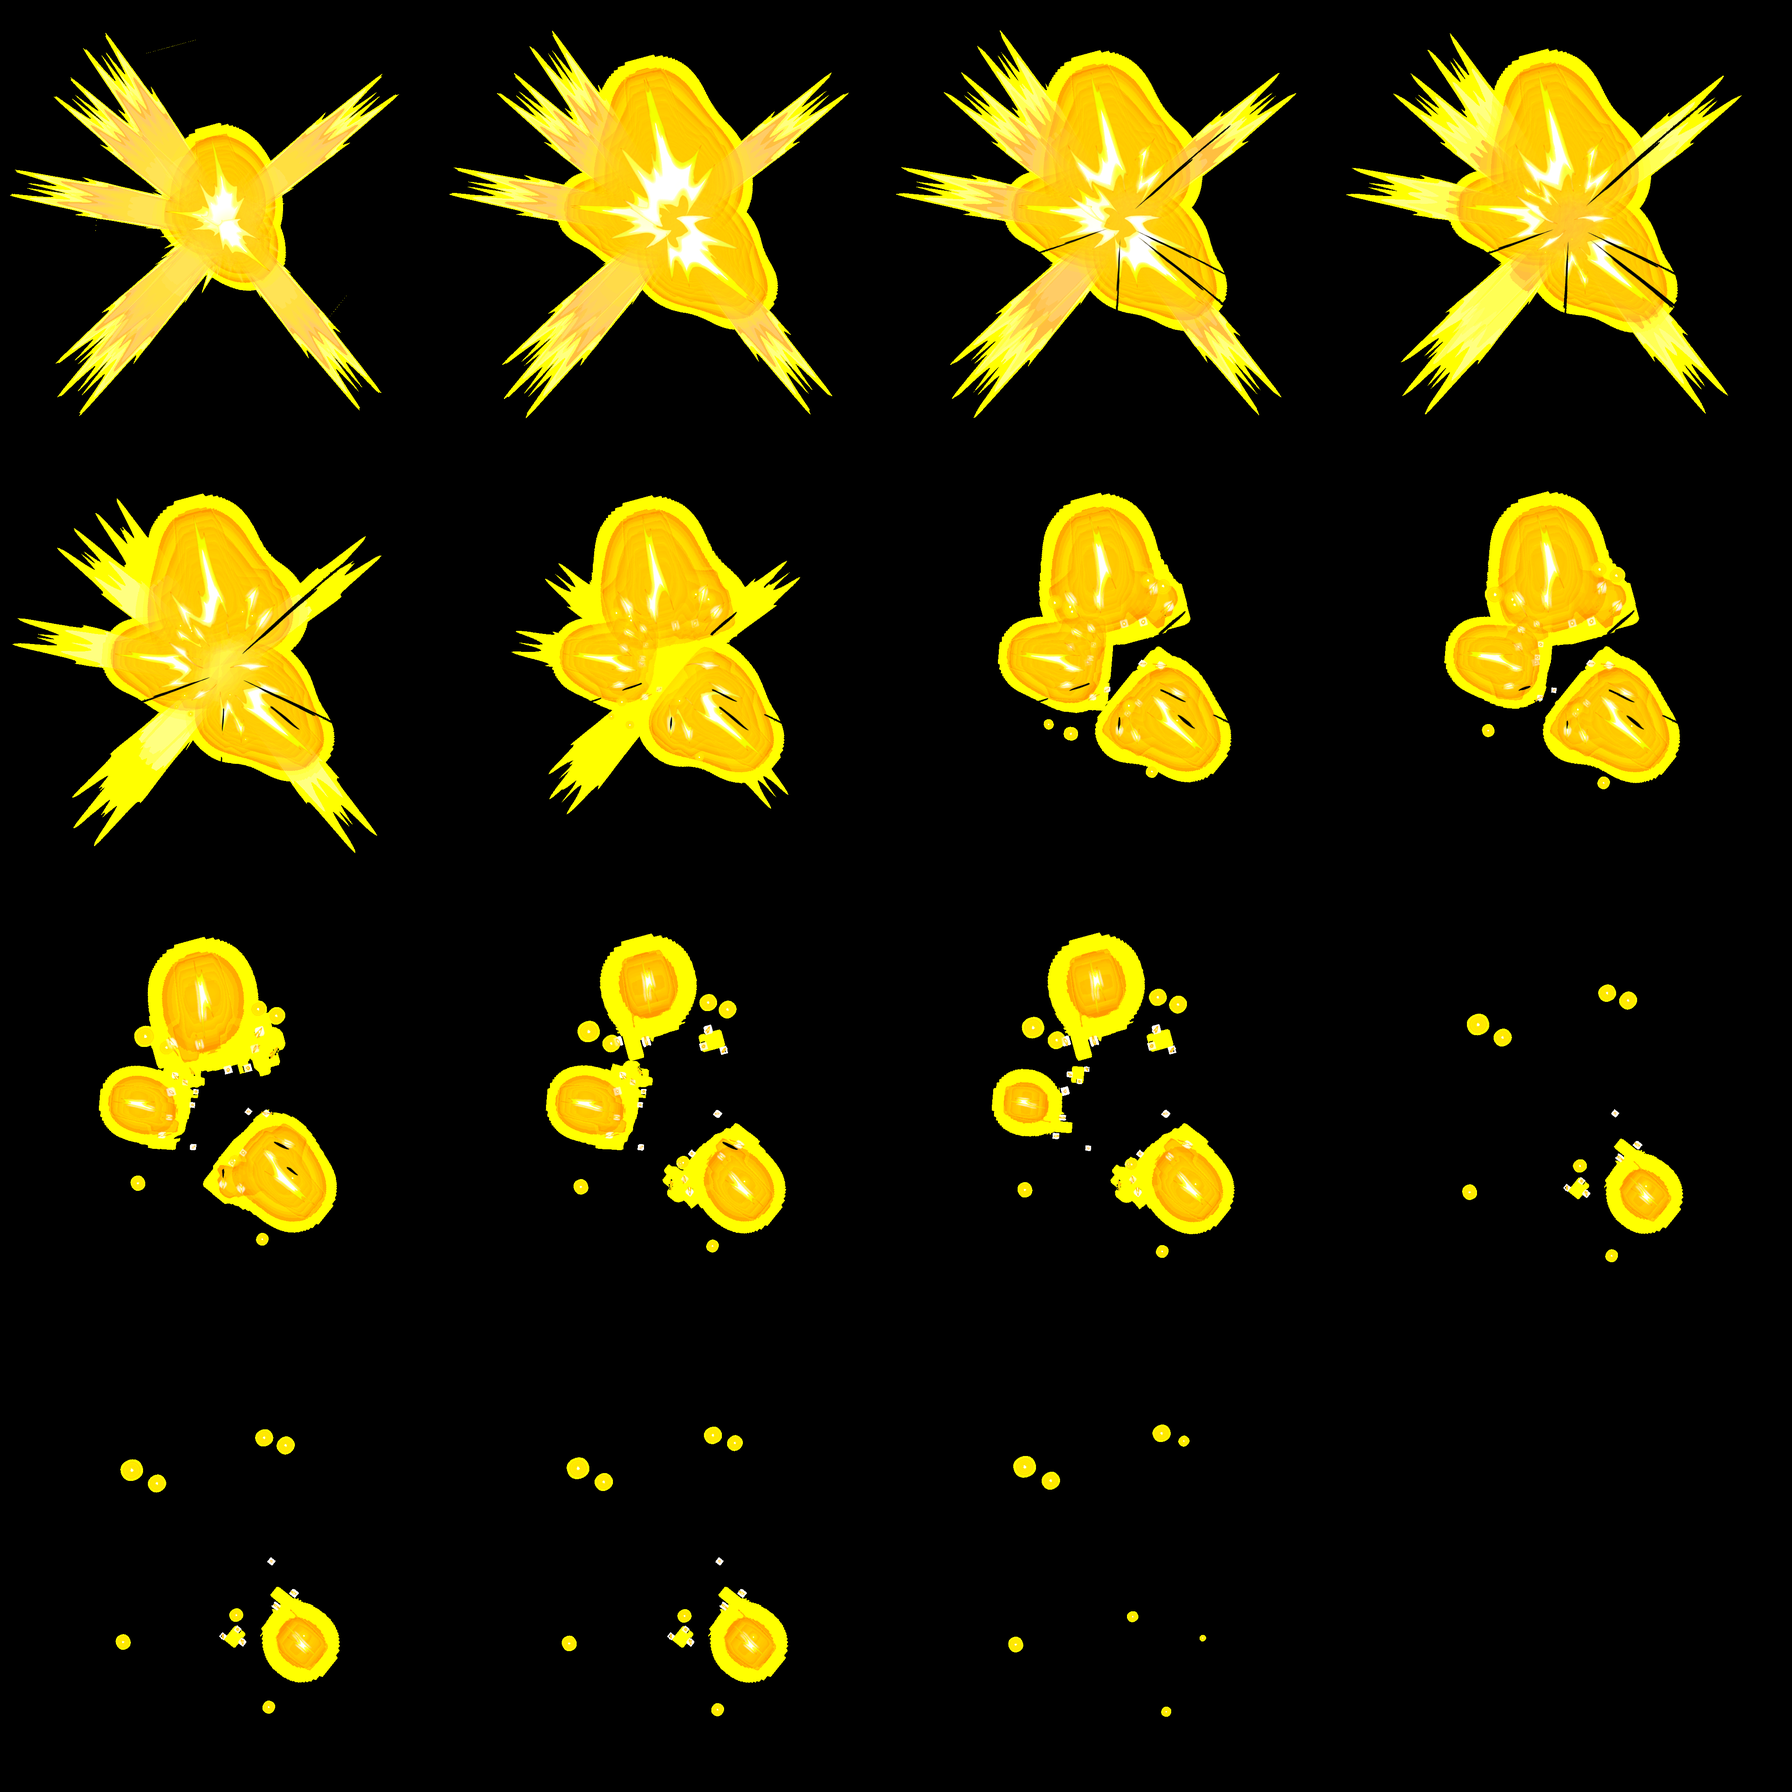
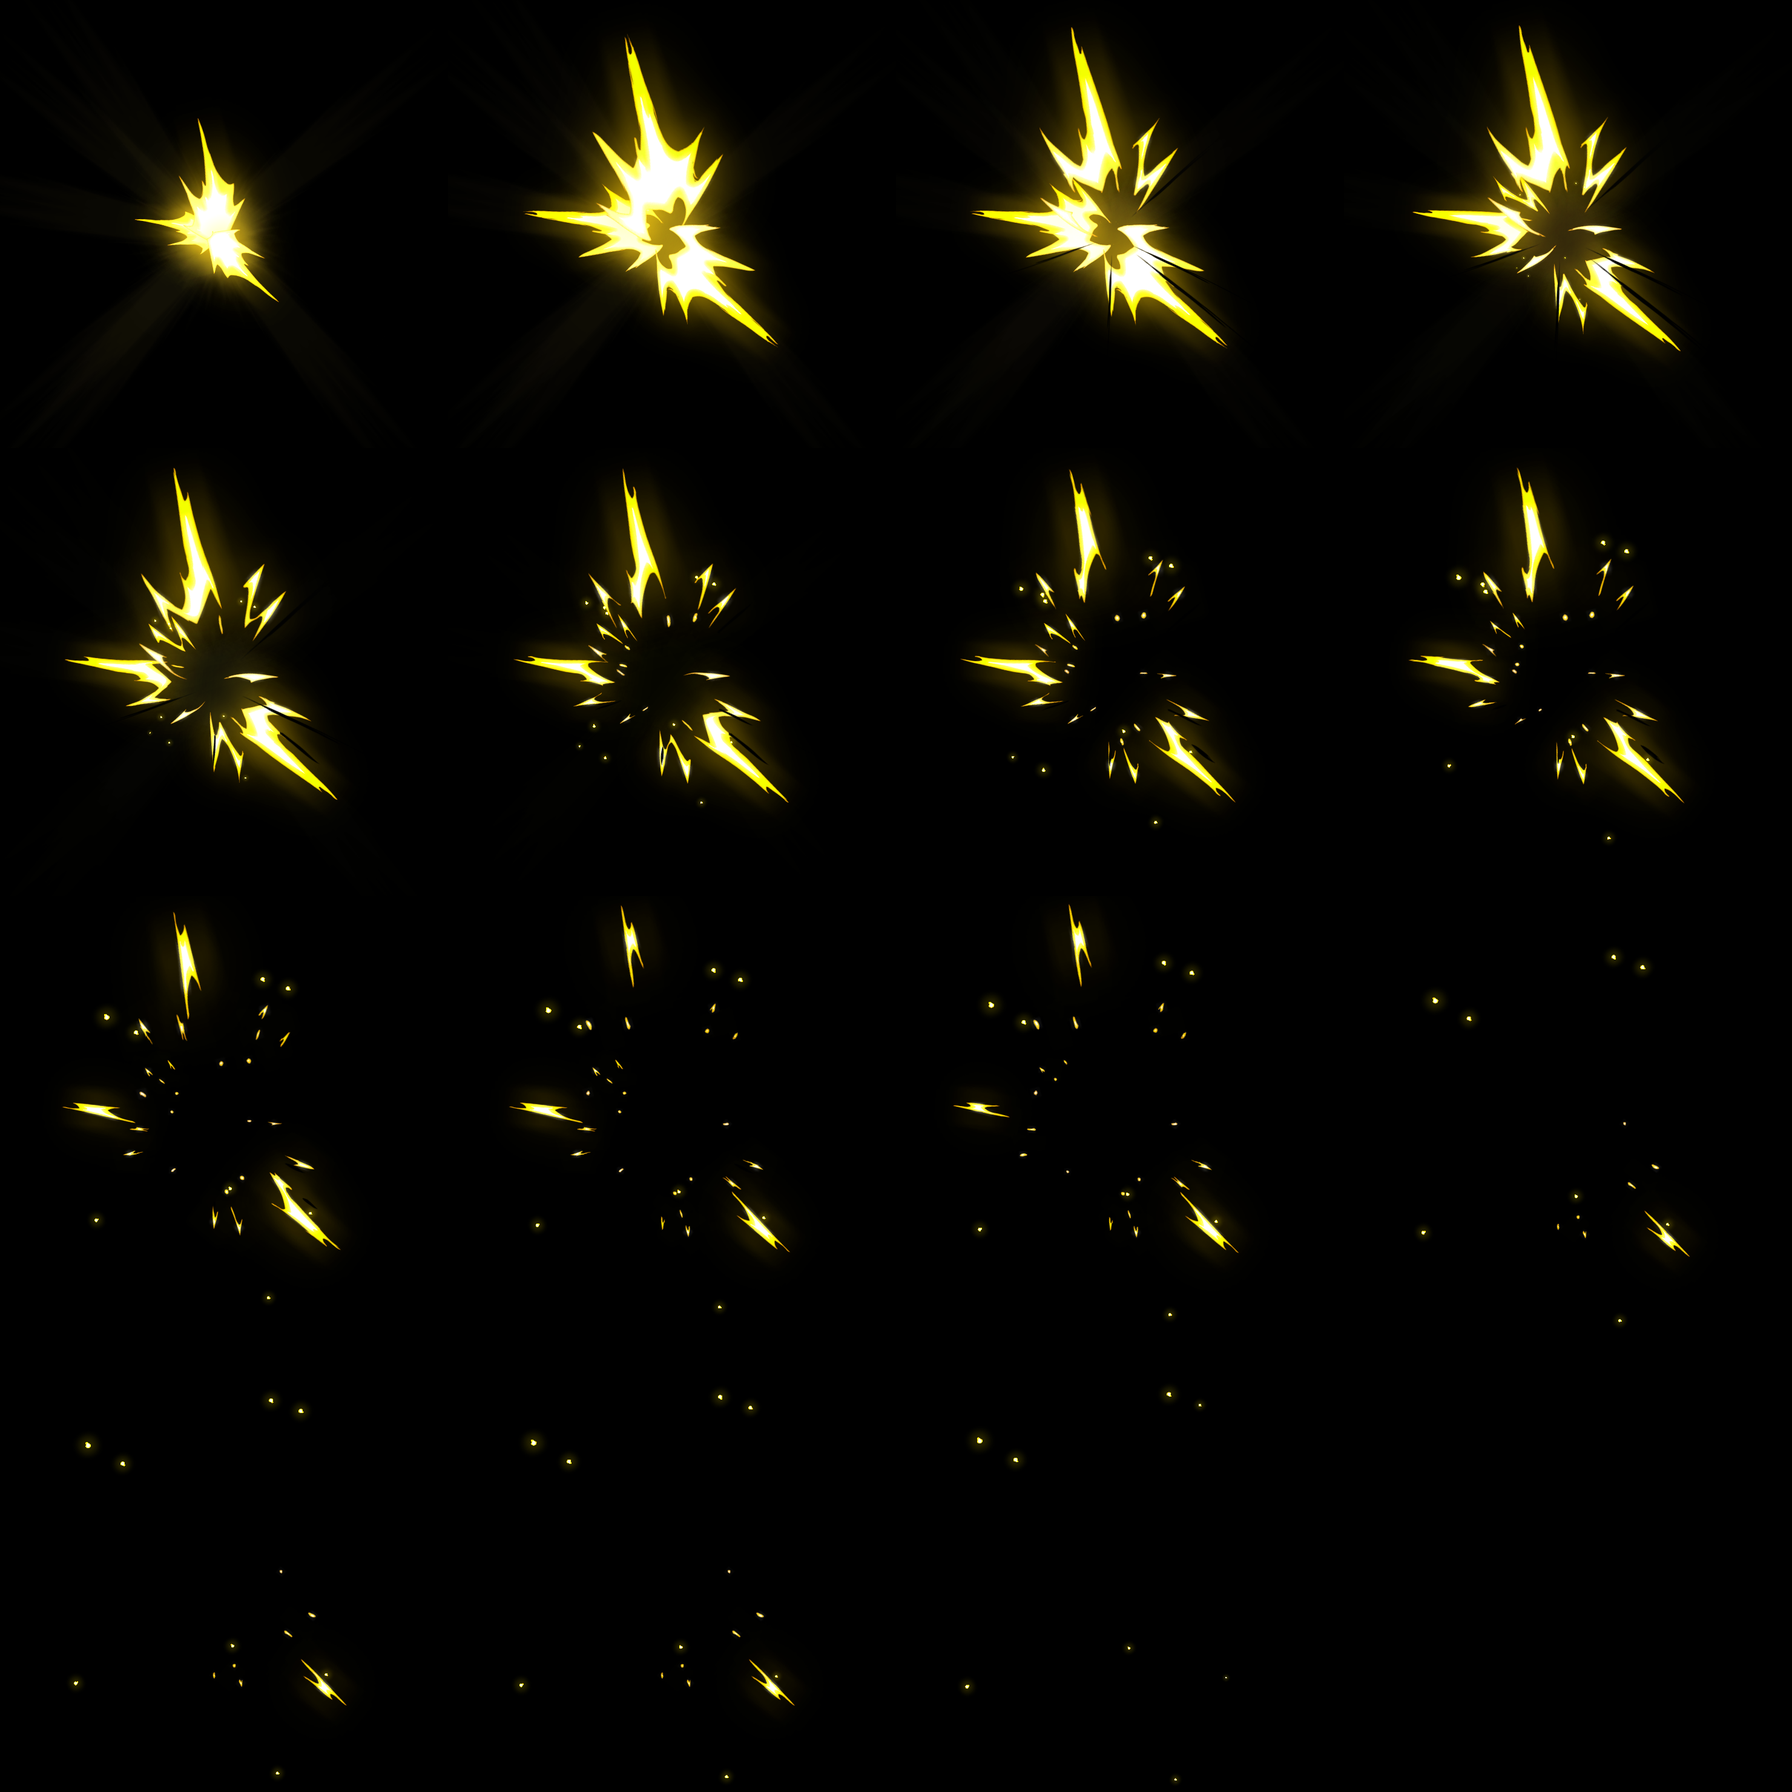
Impacts : l'animation de coup du créateur redétourée (avec sa transparence) et réservée aux coups de base
La planche sans son canal alpha montrait les couches de remplissage (de gros globules) : tools/art/hitsheet_cut.py la pose
maintenant sur du noir avec son alpha, ce qui rend les vrais éclats en pointes. Elle remplace l'« Alternate Physical Hit »
pour les jabs, tilts et aériens (GOLD_ON), tournée le long du coup (GOLD_AXIS) ; les coups forts gardent le « Physical Hit ».

Claude-Session: https://claude.ai/code/session_01HAYVwz5Aj5LLUXv1mWbdMN

diff --git a/src/render/vidFx.js b/src/render/vidFx.js
@@ -18,12 +18,13 @@ const SETS = {
   alt:   { cols: 4, n: 11, tw: 352, th: 352, hue: 48 },
   slash: { cols: 3, n: 7,  tw: 576, th: 384, hue: 55 },
   kill:  { cols: 3, n: 15, tw: 640, th: 320, hue: 120 },
-  // l'animation de coup du créateur (planche 4 x 4 de GIF, tools/art/hitsheet_cut.py) : un X d'éclats jaunes, une bulle
-  // d'énergie qui se scinde en trois, des gouttes ; réservée aux coups forts. Le X est symétrique : pas de rotation.
+  // l'animation de coup du créateur (planche 4 x 4, tools/art/hitsheet_cut.py) : un éclat jaune en pointes dont le grand
+  // éclair part vers le haut, puis des étincelles ; c'est l'effet des coups de base (jabs, tilts, aériens)
   gold:  { cols: 4, n: 15, tw: 448, th: 448, hue: 48 },
 };
 const FPS = 30;
-const GOLD_ON = true; // l'animation du créateur pour les coups forts (false : retour au « Physical Hit » seul)
+const GOLD_ON = true; // l'animation du créateur pour les coups de base (false : retour à l'« Alternate Physical Hit »)
+const GOLD_AXIS = 1.75; // l'angle du grand éclair de la planche (radians, depuis la droite) : on le tourne le long du coup
 // la teinte de chaque joueur (J1 rouge, J2 bleu, J3 jaune, J4 vert : COLORS de sim/constants.js), en degrés
 const SLOT_HUE = [0, 215, 48, 135];
 // la teinte de certains effets de coups (le `fx` d'un coup), qui prime sur celle du joueur
@@ -142,12 +143,12 @@ export class VidFx {
     let kind = 'alt';
     if (sharp) kind = 'slash';
     else if (spike && heavy) kind = 'spike';
-    else if (strong && GOLD_ON) kind = 'gold';
     else if (heavy) kind = (!strong && Math.random() < 0.3) ? 'alt' : 'phys';
+    if (kind === 'alt' && GOLD_ON) kind = 'gold'; // les coups de base : l'animation du créateur à la place du « Alternate Physical Hit »
     const hue = FX_HUE[fx] ?? (slot >= 0 && slot < SLOT_HUE.length ? SLOT_HUE[slot] : undefined);
     const j = (Math.random() - 0.5) * 0.5;
     switch (kind) {
-      case 'gold': this.play('gold', x, y, z, { size: 1.0 + sz * 1.5, flip: Math.random() < 0.5 ? 1 : -1, hue, speed: 1.35, occ: 0.7 }); break;
+      case 'gold': this.play('gold', x, y, z, { size: 1.0 + sz * 1.9, rot: ang - GOLD_AXIS + j, hue, speed: 1.3 }); break;
       case 'phys': this.play('phys', x, y, z, { size: 1.5 + sz * 2.6, rot: ang - SETS.phys.axis, hue }); break;
       case 'spike': this.play('spike', x, y, z, { size: 1.6 + sz * 2.6, flip: Math.random() < 0.5 ? 1 : -1, hue }); break;
       case 'slash': this.play('slash', x, y, z, { size: 2.0 + sz * 2.2, rot: ang + j, hue }); break;

diff --git a/tools/art/hitsheet_cut.py b/tools/art/hitsheet_cut.py
@@ -2,8 +2,8 @@
 
 Usage : python tools/art/hitsheet_cut.py <planche.png> [assets/fx/vfx/gold.png]
 
-La planche d'origine vient du créateur (16 cases de 1024 px, la première vide) : un X d'éclats jaunes, une bulle d'énergie qui
-se scinde en gouttes. On garde les 15 cases utiles, en couleurs pleines sur du noir
+La planche d'origine vient du créateur (16 cases de 1024 px, la première vide) : un éclat jaune en pointes (un grand éclair qui part
+vers le haut, des éclats autour), puis des étincelles. On garde les 15 cases utiles, avec leur transparence, posées sur du noir
 (l'effet s'ajoute à l'image : le noir reste transparent) et réduites à 448 px. Résultat : 4 colonnes, 15 images.
 """
 import json, sys
@@ -14,16 +14,18 @@ out = sys.argv[2] if len(sys.argv) > 2 else 'assets/fx/vfx/gold.png'
 im = Image.open(src).convert('RGBA')
 T = im.width // 4                    # la case d'origine
 S = 448                              # la case finale
-box = (0, 0, 1024, 1024)             # la case entière : les bras du X touchent son bord gauche
+box = (156, 121, 896, 861)           # la zone commune de l'effet dans une case de 1024 (carrée)
 k = T / 1024
 box = tuple(int(v * k) for v in box)
 frames = []
 for i in range(1, 16):
     r, c = divmod(i, 4)
     tile = im.crop((c * T, r * T, (c + 1) * T, (r + 1) * T))
-    # les couleurs telles quelles, sans le canal alpha : celui de la planche rend la bulle presque transparente (ce n'est pas
-    # l'animation voulue), tandis que le noir du fond, lui, est déjà du noir pur
-    frames.append(tile.convert('RGB').crop(box).resize((S, S), Image.LANCZOS))
+    # posée sur du noir avec son canal alpha : c'est lui qui détoure l'effet (sans lui, on voit les couches de remplissage :
+    # de gros globules)
+    bg = Image.new('RGBA', tile.size, (0, 0, 0, 255))
+    bg.alpha_composite(tile)
+    frames.append(bg.convert('RGB').crop(box).resize((S, S), Image.LANCZOS))
 cols = 4
 rows = (len(frames) + cols - 1) // cols
 sheet = Image.new('RGB', (cols * S, rows * S), (0, 0, 0))
